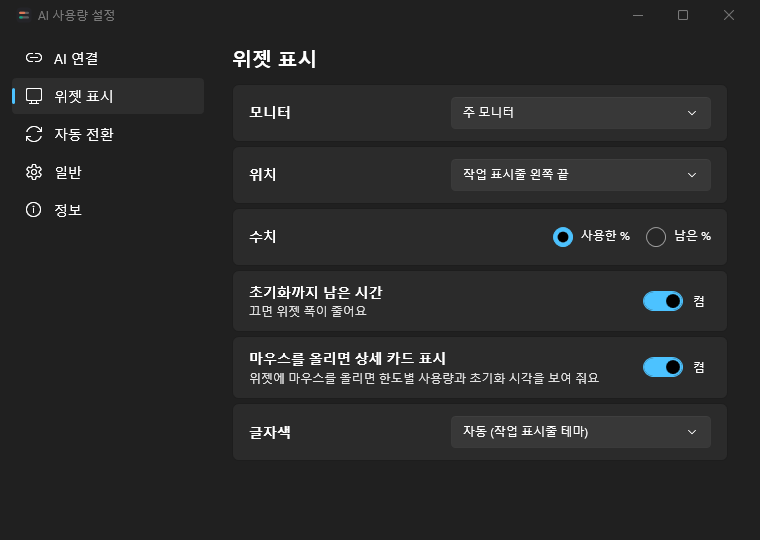
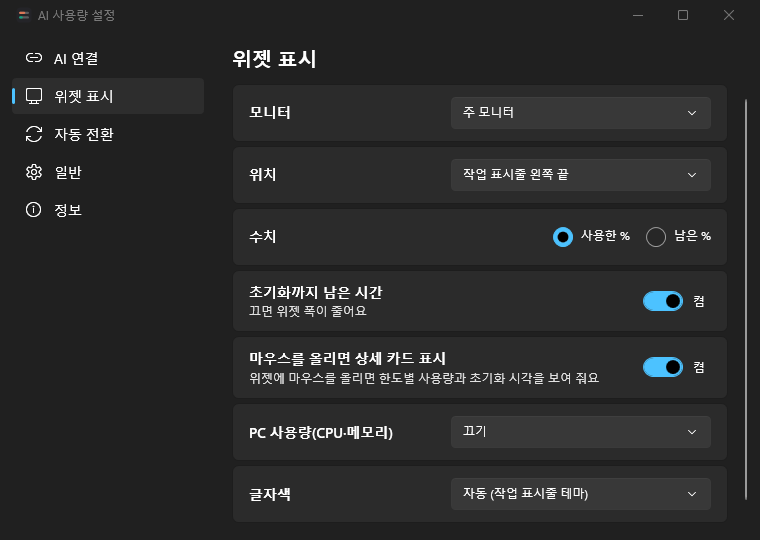
fix: 최종 리뷰 반영 — 트레이 갱신 줄이기와 PC 패널 전환 대체 규칙
- 트레이: PC 줄 툴팁은 마우스를 올릴 때만 채우고, 아이콘은 PC 패널이 현재이며 그림이 바뀔 때만 다시 만듦(2초마다 Explorer 호출 제거)
- 자동 전환: 연결된 AI가 하나도 없으면 PC 패널과 함께 첫 AI(로그인 안내)를 남김
- README: 설정 스크린샷 재캡처(PC 사용량 항목 포함), 중복 이미지 제거, 문구 정정
- DEBUG 캡처 스위치가 상세 카드 끄기 설정을 따르도록 수정

diff --git a/src/AITokenUsage/UI/TrayIconController.cs b/src/AITokenUsage/UI/TrayIconController.cs
@@ -18,6 +18,7 @@ public sealed partial class TrayIconController : IDisposable
     private readonly Forms.ContextMenuStrip _menu;
     private readonly Forms.ToolStripMenuItem _pauseItem;
     private TrayIconRenderer.IconSpec? _lastSpec;
+    private string? _lastTooltip;
     private int _lastSize;
     private Drawing.Icon? _icon;
     private nint _hicon;
@@ -39,6 +40,7 @@ public sealed partial class TrayIconController : IDisposable
 
         _notifyIcon = new Forms.NotifyIcon { ContextMenuStrip = _menu, Text = TrayTextFormatter.AppTitle };
         _notifyIcon.MouseClick += OnMouseClick;
+        _notifyIcon.MouseMove += OnMouseMove;
 
         _host.ViewChanged += OnViewChanged;
         _host.SystemUsageChanged += OnSystemUsageChanged;
@@ -101,13 +103,29 @@ public sealed partial class TrayIconController : IDisposable
 
     private void TogglePause() => _host.Rotation.SetUserPaused(!_host.Rotation.IsUserPaused);
 
-    /// <summary>A new PC sample: update only when the icon or tooltip shows PC values.</summary>
+    /// <summary>
+    /// A new PC sample: only the icon can change, and only while the PC panel is current. The tooltip's PC line is
+    /// filled lazily in <see cref="OnMouseMove"/>; each NotifyIcon update is a synchronous round-trip to Explorer.
+    /// </summary>
     private void OnSystemUsageChanged(object? sender, EventArgs e)
     {
-        if (_host.Rotation.CurrentId == SystemPanel.Id || _host.ShowsSystemLine)
+        if (_disposed || _host.Rotation.CurrentId != SystemPanel.Id)
         {
-            Update();
+            return;
         }
+
+        UpdateIcon(CurrentView());
+    }
+
+    /// <summary>The shell shows the tooltip after the pointer rests on the icon, so refresh the PC line just before.</summary>
+    private void OnMouseMove(object? sender, Forms.MouseEventArgs e)
+    {
+        if (_disposed || (_host.Rotation.CurrentId != SystemPanel.Id && !_host.ShowsSystemLine))
+        {
+            return;
+        }
+
+        ApplyTooltip(CurrentView());
     }
 
     private ProviderView? CurrentView()
@@ -131,18 +149,40 @@ public sealed partial class TrayIconController : IDisposable
         }
 
         ProviderView? view = CurrentView();
+        ApplyTooltip(view);
+        UpdateIcon(view);
+    }
+
+    private void ApplyTooltip(ProviderView? view)
+    {
         bool isSystem = view?.ProviderId == SystemPanel.Id;
-        ProviderSettings? lines = view is null || isSystem
-            ? null
-            : _host.Settings.Providers.FirstOrDefault(p => string.Equals(p.Id, view.ProviderId, StringComparison.Ordinal));
 
         // PC values are always "used %" (the ValueMode setting applies to AI limits only); line 1 is CPU.
         ValueMode mode = isSystem ? ValueMode.Used : _host.Settings.ValueMode;
 
-        _notifyIcon.Text = isSystem
+        string text = isSystem
             ? SystemPanel.TooltipLine(_host.SystemUsage)
             : TrayTextFormatter.Tooltip(
-                view, lines, mode, _host.ShowsSystemLine ? SystemPanel.TooltipLine(_host.SystemUsage) : null);
+                view, LinesFor(view), mode, _host.ShowsSystemLine ? SystemPanel.TooltipLine(_host.SystemUsage) : null);
+
+        // Skip identical text: every NotifyIcon.Text write is a shell round-trip.
+        if (!string.Equals(text, _lastTooltip, StringComparison.Ordinal))
+        {
+            _notifyIcon.Text = text;
+            _lastTooltip = text;
+        }
+    }
+
+    private ProviderSettings? LinesFor(ProviderView? view) =>
+        view is null || view.ProviderId == SystemPanel.Id
+            ? null
+            : _host.Settings.Providers.FirstOrDefault(p => string.Equals(p.Id, view.ProviderId, StringComparison.Ordinal));
+
+    private void UpdateIcon(ProviderView? view)
+    {
+        bool isSystem = view?.ProviderId == SystemPanel.Id;
+        ProviderSettings? lines = LinesFor(view);
+        ValueMode mode = isSystem ? ValueMode.Used : _host.Settings.ValueMode;
 
         UsageMeter? line1 = view is null ? null : TrayTextFormatter.SelectLine1(view, lines);
         TrayIconRenderer.IconSpec spec = TrayIconRenderer.CreateSpec(view, line1, mode);

diff --git a/tests/AITokenUsage.Core.Tests/Rotation/RotationControllerTests.cs b/tests/AITokenUsage.Core.Tests/Rotation/RotationControllerTests.cs
@@ -1,5 +1,6 @@
 using AITokenUsage.Core.Models;
 using AITokenUsage.Core.Rotation;
+using AITokenUsage.Core.SystemUsage;
 using Microsoft.Extensions.Time.Testing;
 using Xunit;
 
@@ -190,6 +191,41 @@ public class RotationControllerTests
 
         Assert.Equal(new[] { "codex" }, _rotation.EligibleIds);
         Assert.Equal("codex", _rotation.CurrentId);
+    }
+
+    [Fact]
+    public void NoAiEligible_WithPcPanel_KeepsFirstEnabledAiThenPc()
+    {
+        _rotation.UpdateProviders(
+        [
+            View("codex", ProviderStatus.NotInstalled),
+            View("copilot", ProviderStatus.SignedOut),
+            View(SystemPanel.Id),
+        ]);
+
+        Assert.Equal(new[] { "codex", SystemPanel.Id }, _rotation.EligibleIds);
+        Assert.Equal("codex", _rotation.CurrentId);
+    }
+
+    [Fact]
+    public void SomeAiEligible_WithPcPanel_KeepsUsualEligibility()
+    {
+        _rotation.UpdateProviders(
+        [
+            View("codex", ProviderStatus.NotInstalled),
+            View("claude"),
+            View(SystemPanel.Id),
+        ]);
+
+        Assert.Equal(new[] { "claude", SystemPanel.Id }, _rotation.EligibleIds);
+    }
+
+    [Fact]
+    public void OnlyPcPanel_IsEligible()
+    {
+        _rotation.UpdateProviders([View(SystemPanel.Id)]);
+
+        Assert.Equal(new[] { SystemPanel.Id }, _rotation.EligibleIds);
     }
 
     [Fact]

diff --git a/src/AITokenUsage.Core/Rotation/RotationController.cs b/src/AITokenUsage.Core/Rotation/RotationController.cs
@@ -1,4 +1,5 @@
 using AITokenUsage.Core.Models;
+using AITokenUsage.Core.SystemUsage;
 
 namespace AITokenUsage.Core.Rotation;
 
@@ -150,9 +151,20 @@ public sealed class RotationController
             .Select(v => v.ProviderId)
             .ToArray();
 
+        // The always-Ok PC view must not hide the "nothing eligible" fallback: with no AI eligible, keep the
+        // first enabled AI (so its status message is visible) followed by the PC view.
+        bool anyAiEligible = eligible.Any(id => !IsSystem(id));
+        string? firstAi = enabledInOrder.Select(v => v.ProviderId).FirstOrDefault(id => !IsSystem(id));
+        if (!anyAiEligible && firstAi is not null)
+        {
+            return [firstAi, .. eligible.Where(IsSystem)];
+        }
+
         // Nothing eligible: show the first enabled provider so its status message is visible.
         return eligible.Length > 0 ? eligible : [enabledInOrder[0].ProviderId];
     }
+
+    private static bool IsSystem(string id) => string.Equals(id, SystemPanel.Id, StringComparison.Ordinal);
 
     private static bool IsUnavailable(ProviderView view) =>
         view.LastGood is null

diff --git a/src/AITokenUsage/UI/DetailFlyoutController.cs b/src/AITokenUsage/UI/DetailFlyoutController.cs
@@ -64,7 +64,7 @@ public sealed class DetailFlyoutController : IDisposable
         {
             _pinTimer = CreateTimer(TimeSpan.FromSeconds(2), (_, _) =>
             {
-                if (!_disposed && !IsOpen)
+                if (!_disposed && !IsOpen && CanOpen)
                 {
                     Open();
                 }

diff --git a/README.md b/README.md
@@ -15,12 +15,9 @@ Windows 11 작업 표시줄 안에 **Claude · Codex · Gemini CLI · GitHub Cop
 - **작업 표시줄 위젯**: 176×40 DIP, "초기화까지 남은 시간"을 켜면 218×40 DIP. 배경은 투명합니다. 작업 표시줄의 자식 창으로 붙고, 실패하면 작업 표시줄이 소유하는 창(overlay)으로 대신 표시합니다.
 - **2줄 미니바**: AI마다 표시할 두 한도를 고를 수 있습니다(예: Claude 5시간 세션 / 주간, Codex 5시간 / 주간, Gemini Pro / Flash, Copilot 월간 / 리셋 날짜). 75% 이상은 주황, 90% 이상은 빨강(공급자가 등급을 주면 그 값)입니다.
 - **초기화까지 남은 시간**: 각 줄의 % 오른쪽에 한도가 초기화될 때까지 남은 시간을 `4h12m`, `2d3h`처럼 짧게 보여 줍니다. **설정 → 위젯 표시 → 초기화까지 남은 시간**에서 끄면 위젯 폭이 176 DIP로 줄어듭니다.
-- **PC 사용량(CPU·메모리)**: PC 전체 CPU·메모리 사용률을 2초마다 보여 줍니다. **설정 → 위젯 표시 → PC 사용량**에서 끄기(기본) / 전환 패널(AI들 사이에 PC 패널 추가) / 위젯 옆에 항상(위젯이 64 DIP 넓어짐) / 상세 카드·툴팁에만 중 고릅니다.
+- **PC 사용량(CPU·메모리)**: PC 전체 CPU·메모리 사용률을 2초마다 보여 줍니다. **설정 → 위젯 표시 → PC 사용량**에서 끄기(기본) / 전환 패널(AI들 뒤에 PC 패널 추가) / 위젯 옆에 항상(위젯이 64 DIP 넓어짐) / 상세 카드·툴팁에만 중 고릅니다.
 - **자동 전환**: 2–60초 간격(기본 5초), 220ms 슬라이드. 왼쪽 클릭·휠로 수동 전환, 마우스를 올리면 멈춤. 연결 안 된 AI는 건너뛸 수 있습니다.
 - **상세 카드**: 위젯에 마우스를 0.4초 올리면 한도별 넓은 바, 리셋 시각(`3시간 12분 후 · 오늘 15:50`), 플랜, Claude 추가 사용량, 마지막 갱신·재시도 시각을 보여 줍니다. 필요 없으면 **설정 → 위젯 표시 → 마우스를 올리면 상세 카드 표시**를 꺼서 끌 수 있습니다.
-
-  <img src="docs/images/detail-card.png" alt="Claude 상세 카드: 현재 세션(5시간)과 주간 한도별 사용량 바, 초기화까지 남은 시간과 시각, 플랜, 마지막 갱신" width="391">
-
 - **설정 창**: 바꾸면 바로 적용·저장됩니다. 페이지는 다섯 가지입니다.
   - **AI 연결**: AI별 연결 상태와 단계별 안내, 위젯에 표시할지 여부, 순서, 1줄·2줄에 보여 줄 한도.
   - **위젯 표시**: 모니터, 위치(작업 표시줄 왼쪽 끝 / 시작 버튼 왼쪽 / 알림 영역 왼쪽), 사용한 %·남은 %, 초기화까지 남은 시간, 마우스를 올리면 상세 카드 표시, PC 사용량(CPU·메모리), 글자색(자동 / 밝게 / 어둡게).
@@ -28,9 +25,9 @@ Windows 11 작업 표시줄 안에 **Claude · Codex · Gemini CLI · GitHub Cop
   - **일반**: 언어(자동 / 한국어 / English), 새로고침 간격(2/5/10/15분), Windows 시작 시 자동 실행, 트레이 아이콘 표시.
   - **정보**: 버전, 비공식 API 안내, 로그 폴더 열기, 설정 파일 위치.
 
-  <img src="docs/images/settings-widget.png" alt="설정 창의 위젯 표시 페이지: 모니터, 위치, 수치, 초기화까지 남은 시간, 마우스를 올리면 상세 카드 표시, 글자색" width="640">
+  <img src="docs/images/settings-widget.png" alt="설정 창의 위젯 표시 페이지: 모니터, 위치, 수치, 초기화까지 남은 시간, 마우스를 올리면 상세 카드 표시, PC 사용량, 글자색" width="640">
 
-- **트레이 아이콘**: 현재 AI의 1줄 값을 숫자로 그립니다. 왼쪽 클릭은 설정 창, 오른쪽 클릭은 `설정…` · `지금 새로고침` · `자동 전환 일시정지` · `종료`.
+- **트레이 아이콘**: 현재 AI의 1줄 값을 숫자로 그립니다(PC 패널이 현재 표시 중이면 CPU %). 왼쪽 클릭은 설정 창, 오른쪽 클릭은 `설정…` · `지금 새로고침` · `자동 전환 일시정지` · `종료`.
 - **견고함**: 마지막 정상 값을 캐시해 시작 즉시 보여 주고, 조회가 실패하면 흐리게 표시합니다. 요청 제한(429)이면 지수 백오프로 기다립니다.
 
 ## 요구 사항
